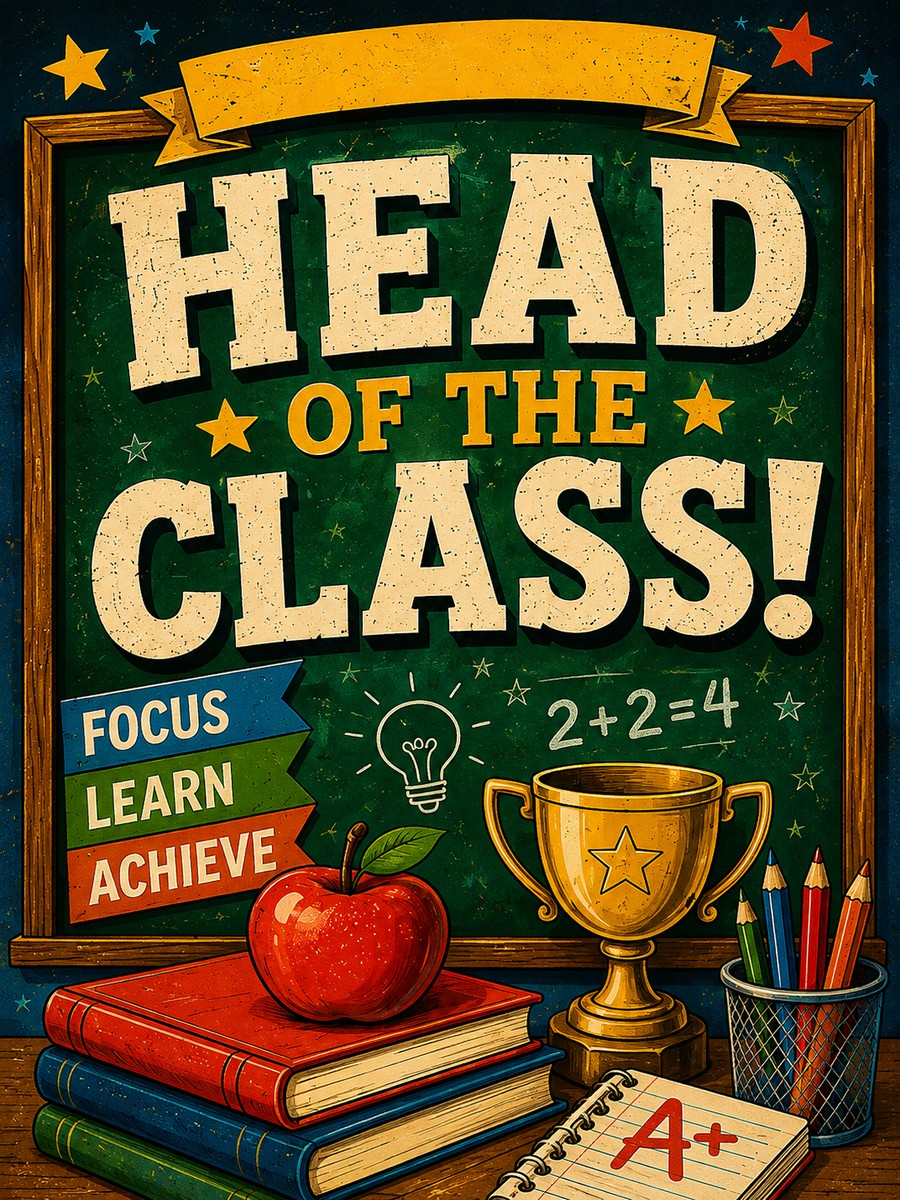
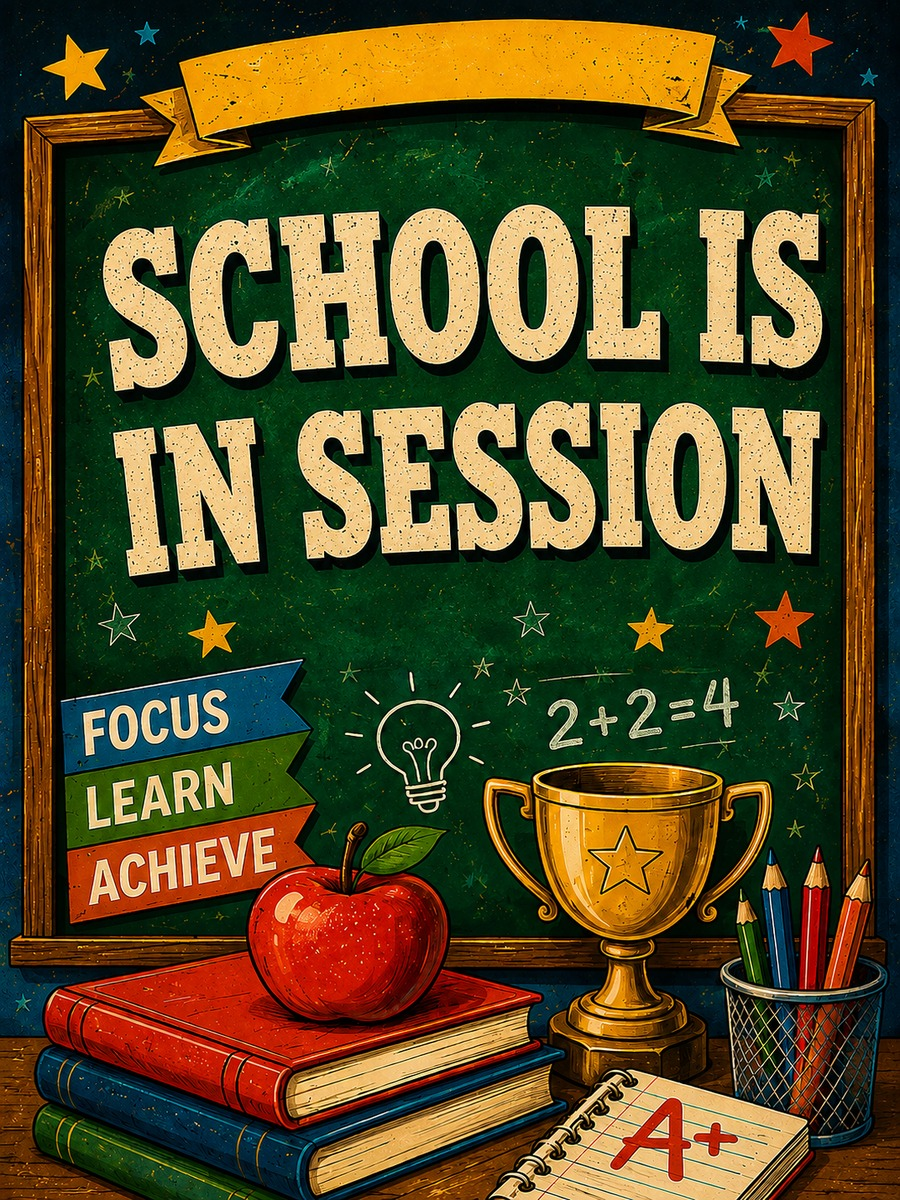
v259: rename Head of the Class -> School Is in Session, new poster art
Trademark audit: 'Head of the Class' is a live TV series title (ABC 1986-91,
HBO Max revival 2021, Warner Bros. Television). Using it as a vault product
name is trademark exposure, not copyright. Replaced with a generic phrase.

- index.html: fam_school name -> 'School Is in Session' (id unchanged)
- art-fam_school.jpg: regenerated, title lettering matches
- sw.js: CACHE sfs-v259

Claude-Session: https://claude.ai/code/session_012avjdYG8yRCMZ3uJswRWwC

diff --git a/index.html b/index.html
@@ -666,7 +666,7 @@ var VAULTS=[
  {id:'fam_food', name:"Food & Snack Time", edition:'family', cat:'', famcat:'Everyday Fun', badge:'prem', c:['#b1492f','#ac7400'], dark:1},
  {id:'fam_nursery', name:"Storytime & Nursery Rhymes", edition:'family', cat:'', famcat:'Everyday Fun', badge:'prem', c:['#ab512b','#353f1b'], dark:1},
  {id:'fam_instruments', name:"Music Instruments", edition:'family', cat:'', famcat:'Everyday Fun', badge:'prem', c:['#b78f15','#286669'], dark:1},
- {id:'fam_school', name:"Head of the Class", edition:'family', cat:'', famcat:'Everyday Fun', badge:'prem', c:['#853f19','#7c5e09'], dark:1},
+ {id:'fam_school', name:"School Is in Session", edition:'family', cat:'', famcat:'Everyday Fun', badge:'prem', c:['#853f19','#7c5e09'], dark:1},
  {id:'fam_sportswords', name:"Sports: Game Day Words", edition:'family', cat:'', famcat:'Everyday Fun', badge:'prem', c:['#a35e05','#095b45'], dark:1},
  {id:'fam_jobs', name:"When I Grow Up", edition:'family', cat:'', famcat:'Everyday Fun', badge:'prem', c:['#623414','#2d3b07'], dark:1},
  {id:'fam_geography', name:"USA Geography & Landmarks", edition:'family', cat:'', famcat:'Everyday Fun', badge:'prem', c:['#b7934d','#007876'], dark:1},

diff --git a/sw.js b/sw.js
@@ -1,4 +1,4 @@
-var CACHE='sfs-v258';
+var CACHE='sfs-v259';
 /* IMPORTANT: do NOT precache the HTML documents. If the app shell is cached, an installed PWA
    can launch straight from cache and bypass Cloudflare Access. Keeping only static assets here
    forces every page launch to hit the network, so the Access login is always enforced. */
